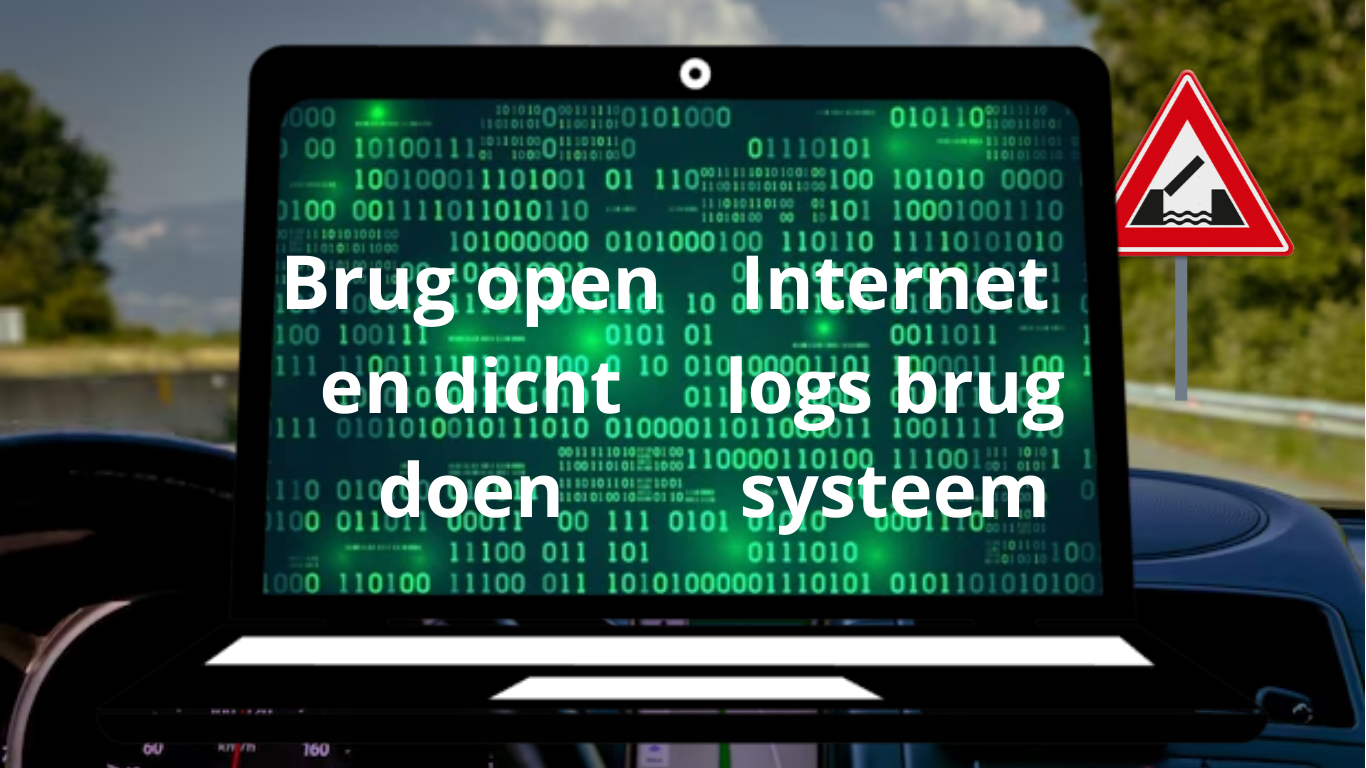
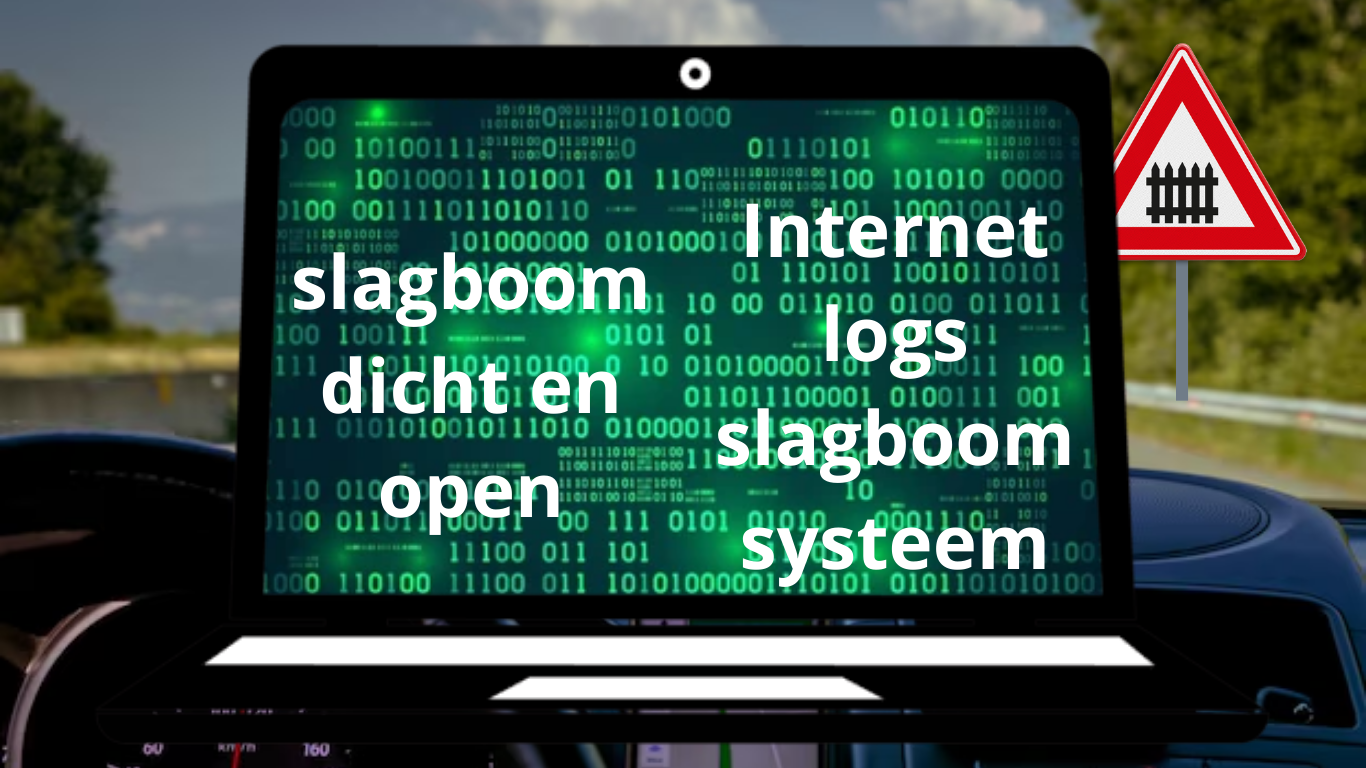
/

diff --git a/kamer4.5.html b/kamer4.5.html
@@ -15,7 +15,7 @@ html, body {
 }
 
 body {
-    background: url('img/bruglaptop.png') no-repeat center center/cover;
+    background: url('img/spoorlaptop.png') no-repeat center center/cover;
     display: flex;
     flex-direction: column;
     justify-content: center;
